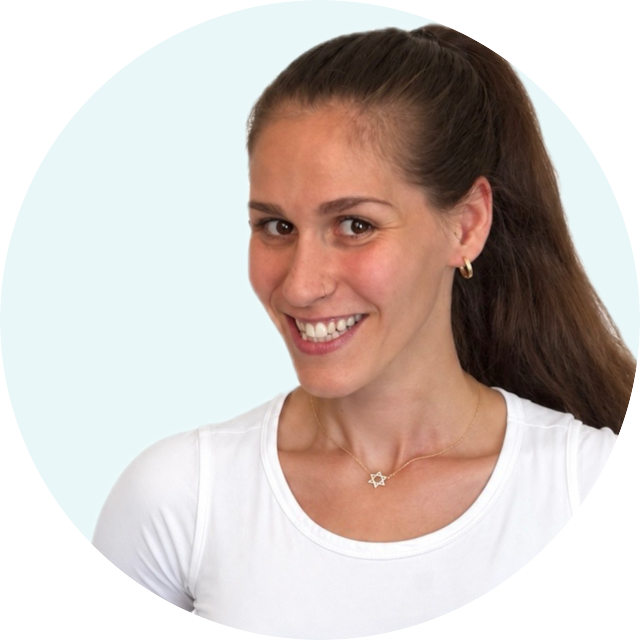
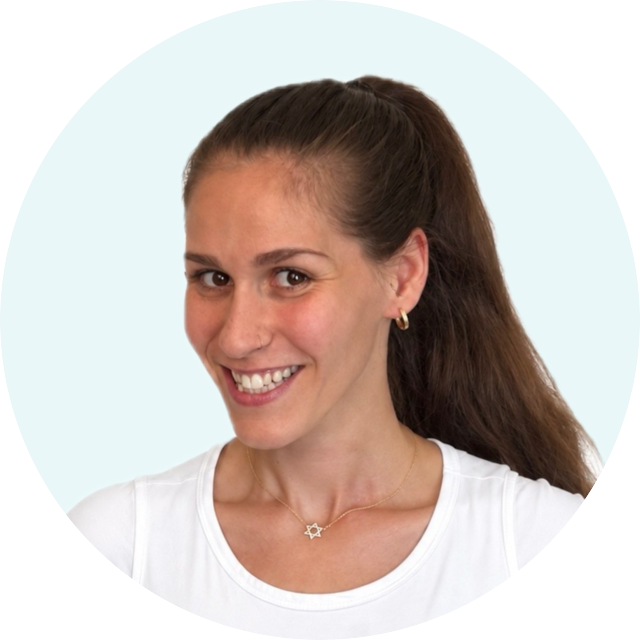
Add desktop two-column hero (match Eva); face-centered mobile headshot

diff --git a/index.html b/index.html
@@ -75,8 +75,27 @@
     </div>
   </nav>
 
+  <!-- HERO (desktop two-column) -->
+  <section class="hero hero-desk" style="padding-top: 2.75rem; padding-bottom: 2rem;">
+    <div class="container hero-2col">
+      <div class="col-text">
+        <div class="eyebrow">Women's Private Training Studio · Teaneck,&nbsp;NJ</div>
+        <h1 class="h1" style="margin-top:0.6rem; margin-bottom:1.1rem;">Reclaim <em>your time</em></h1>
+        <p class="lede">An intimate space to move, strengthen, and feel like yourself. One-on-one and small-group training for women, built around your body and your goals.</p>
+        <div class="btns" style="margin-top:1.75rem;">
+          <a href="sms:+12017052307?&body=Hi%20Nikki%21%20I%20found%20your%20website%20and%20I%27d%20love%20to%20train%20with%20you%20%F0%9F%98%8A" class="btn btn-primary btn-hero">Send me a text</a>
+          <a href="#services" class="btn btn-secondary btn-hero">See what I offer</a>
+        </div>
+        <p class="hero-cta-note">Now training new clients</p>
+      </div>
+      <div class="col-photo">
+        <img src="headshot-faded.png" alt="Nikki Bildner, personal trainer">
+      </div>
+    </div>
+  </section>
+
   <!-- HERO -->
-  <section class="hero centered" style="padding-top: 2.5rem;">
+  <section class="hero centered hero-mob" style="padding-top: 2.5rem;">
     <div class="container">
       <h1 class="h1" style="margin-bottom: 1.75rem;">Reclaim <em>your time</em></h1>
       <img src="headshot-round.png" alt="Nikki Bildner, personal trainer" class="hero-headshot">

diff --git a/style.css b/style.css
@@ -450,3 +450,16 @@ form .form-more .field:last-child { padding-bottom: 1.1rem; }
   .btns { flex-direction: column; gap: 0.7rem; }
   .btns .btn { width: 100%; }
 }
+
+/* Desktop-only two-column hero; mobile keeps the existing centered hero untouched */
+.hero-desk { display: none; }
+@media (min-width: 820px) {
+  .hero-mob { display: none; }
+  .hero-desk { display: block; }
+}
+.hero-2col { display: flex; align-items: center; gap: 2.5rem; min-height: 500px; }
+.hero-2col .col-text { flex: 1 1 54%; text-align: left; }
+.hero-2col .col-photo { flex: 1 1 46%; align-self: stretch; display: flex; align-items: flex-end; justify-content: flex-end; }
+.hero-2col .col-photo img { width: 100%; max-width: 470px; height: auto; display: block; }
+.hero-2col .col-text .lede { margin-left: 0; max-width: 520px; }
+.hero-2col .col-text .btns { justify-content: flex-start; }
